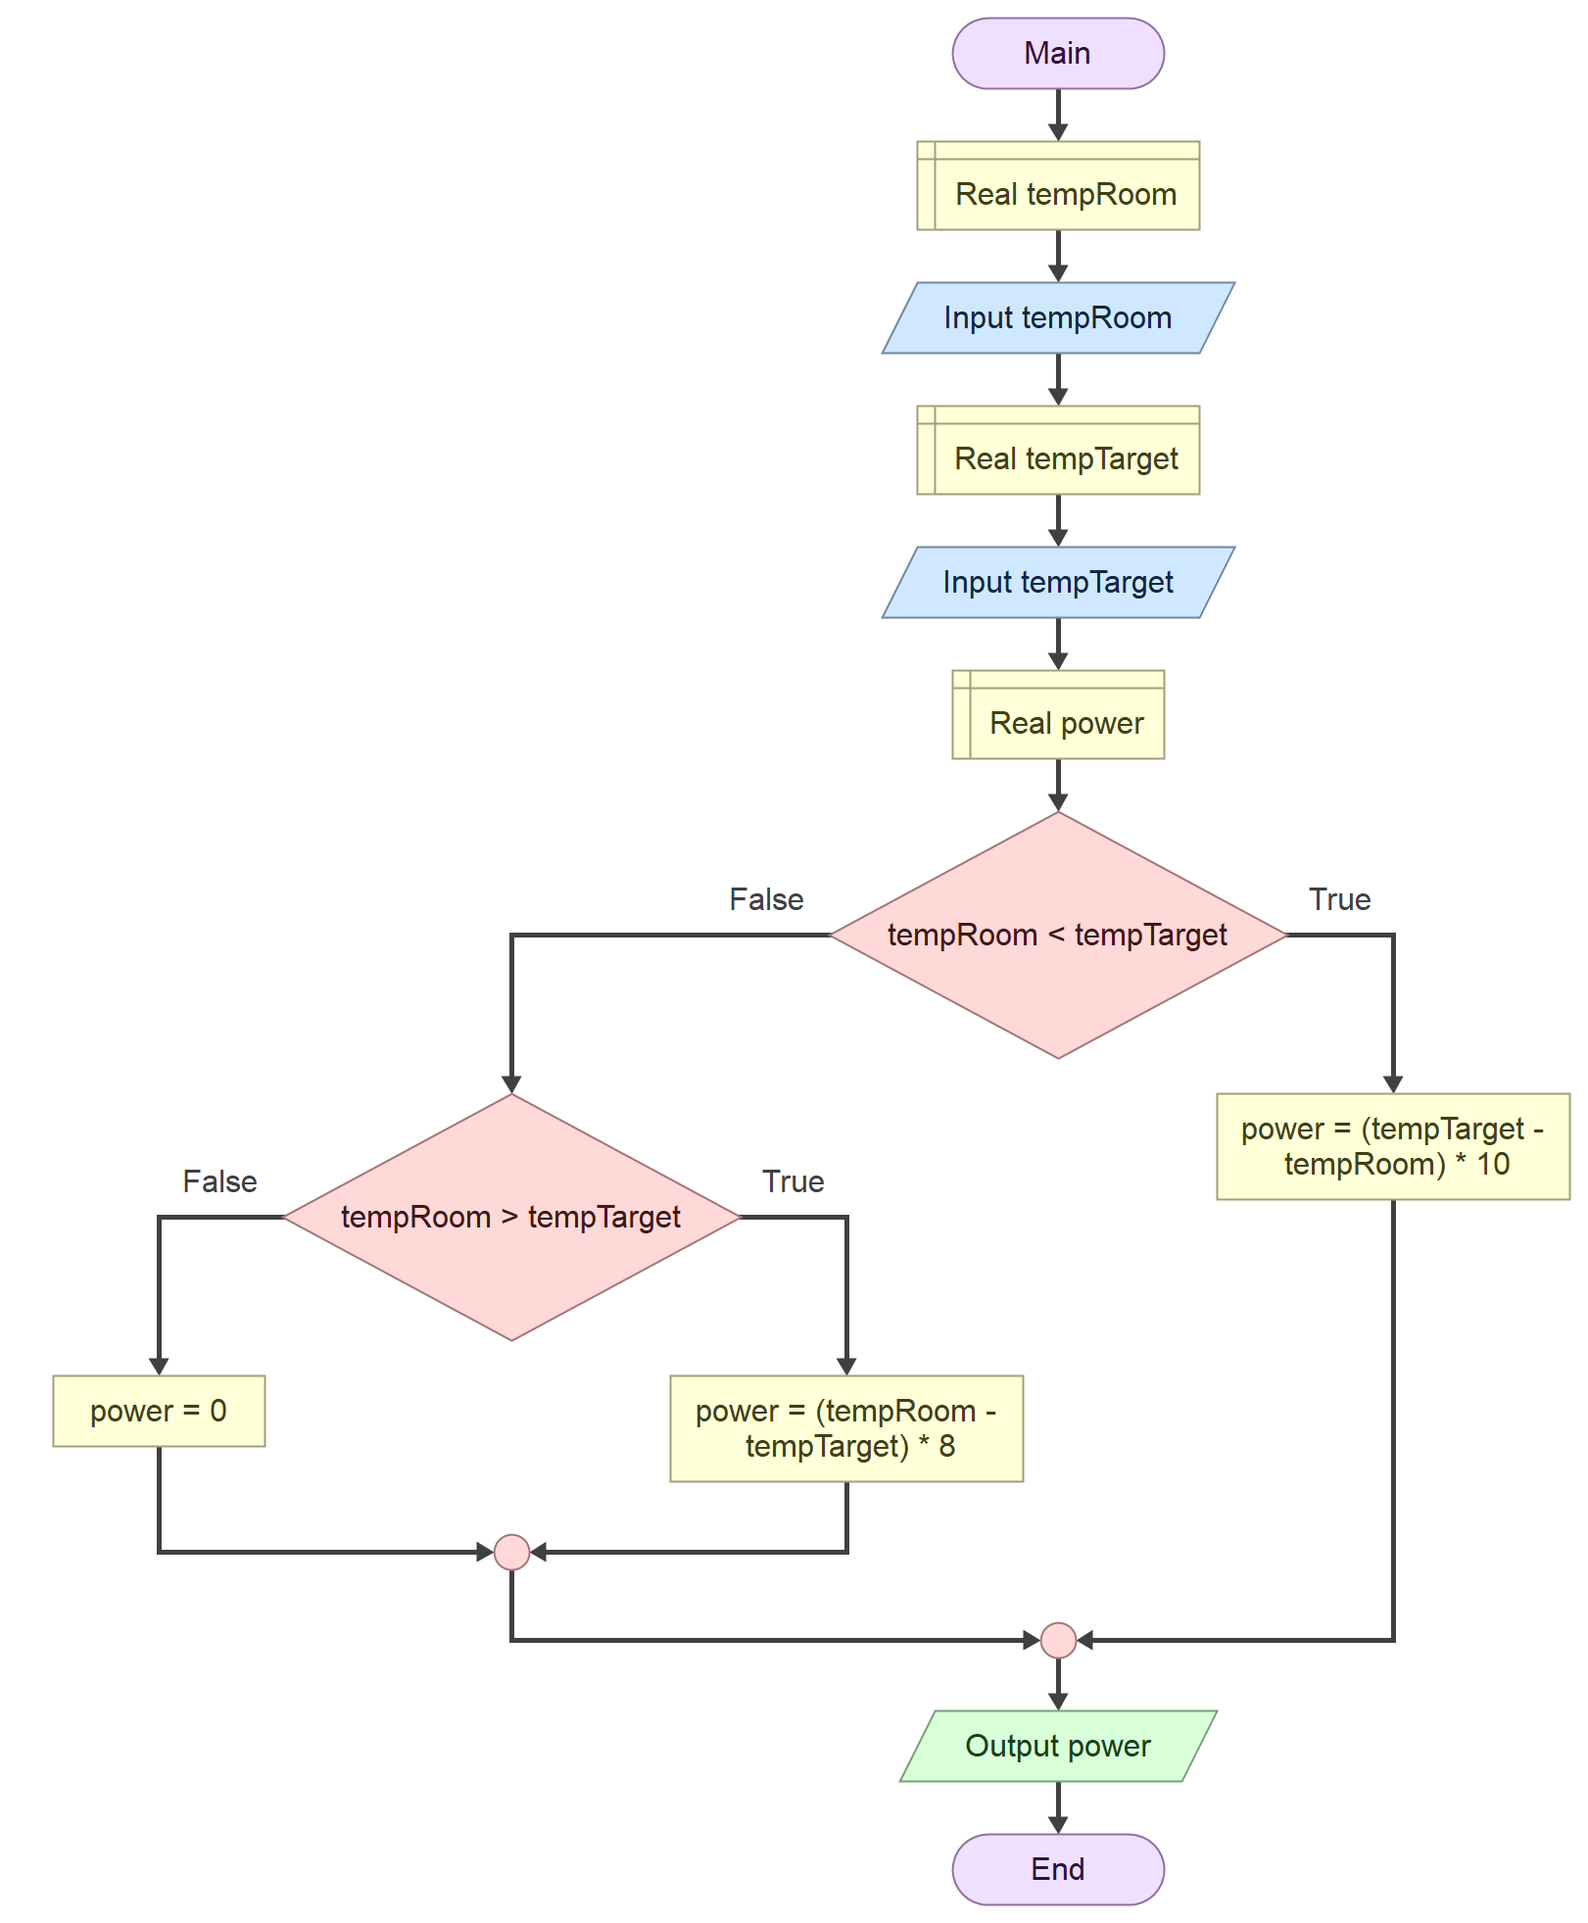
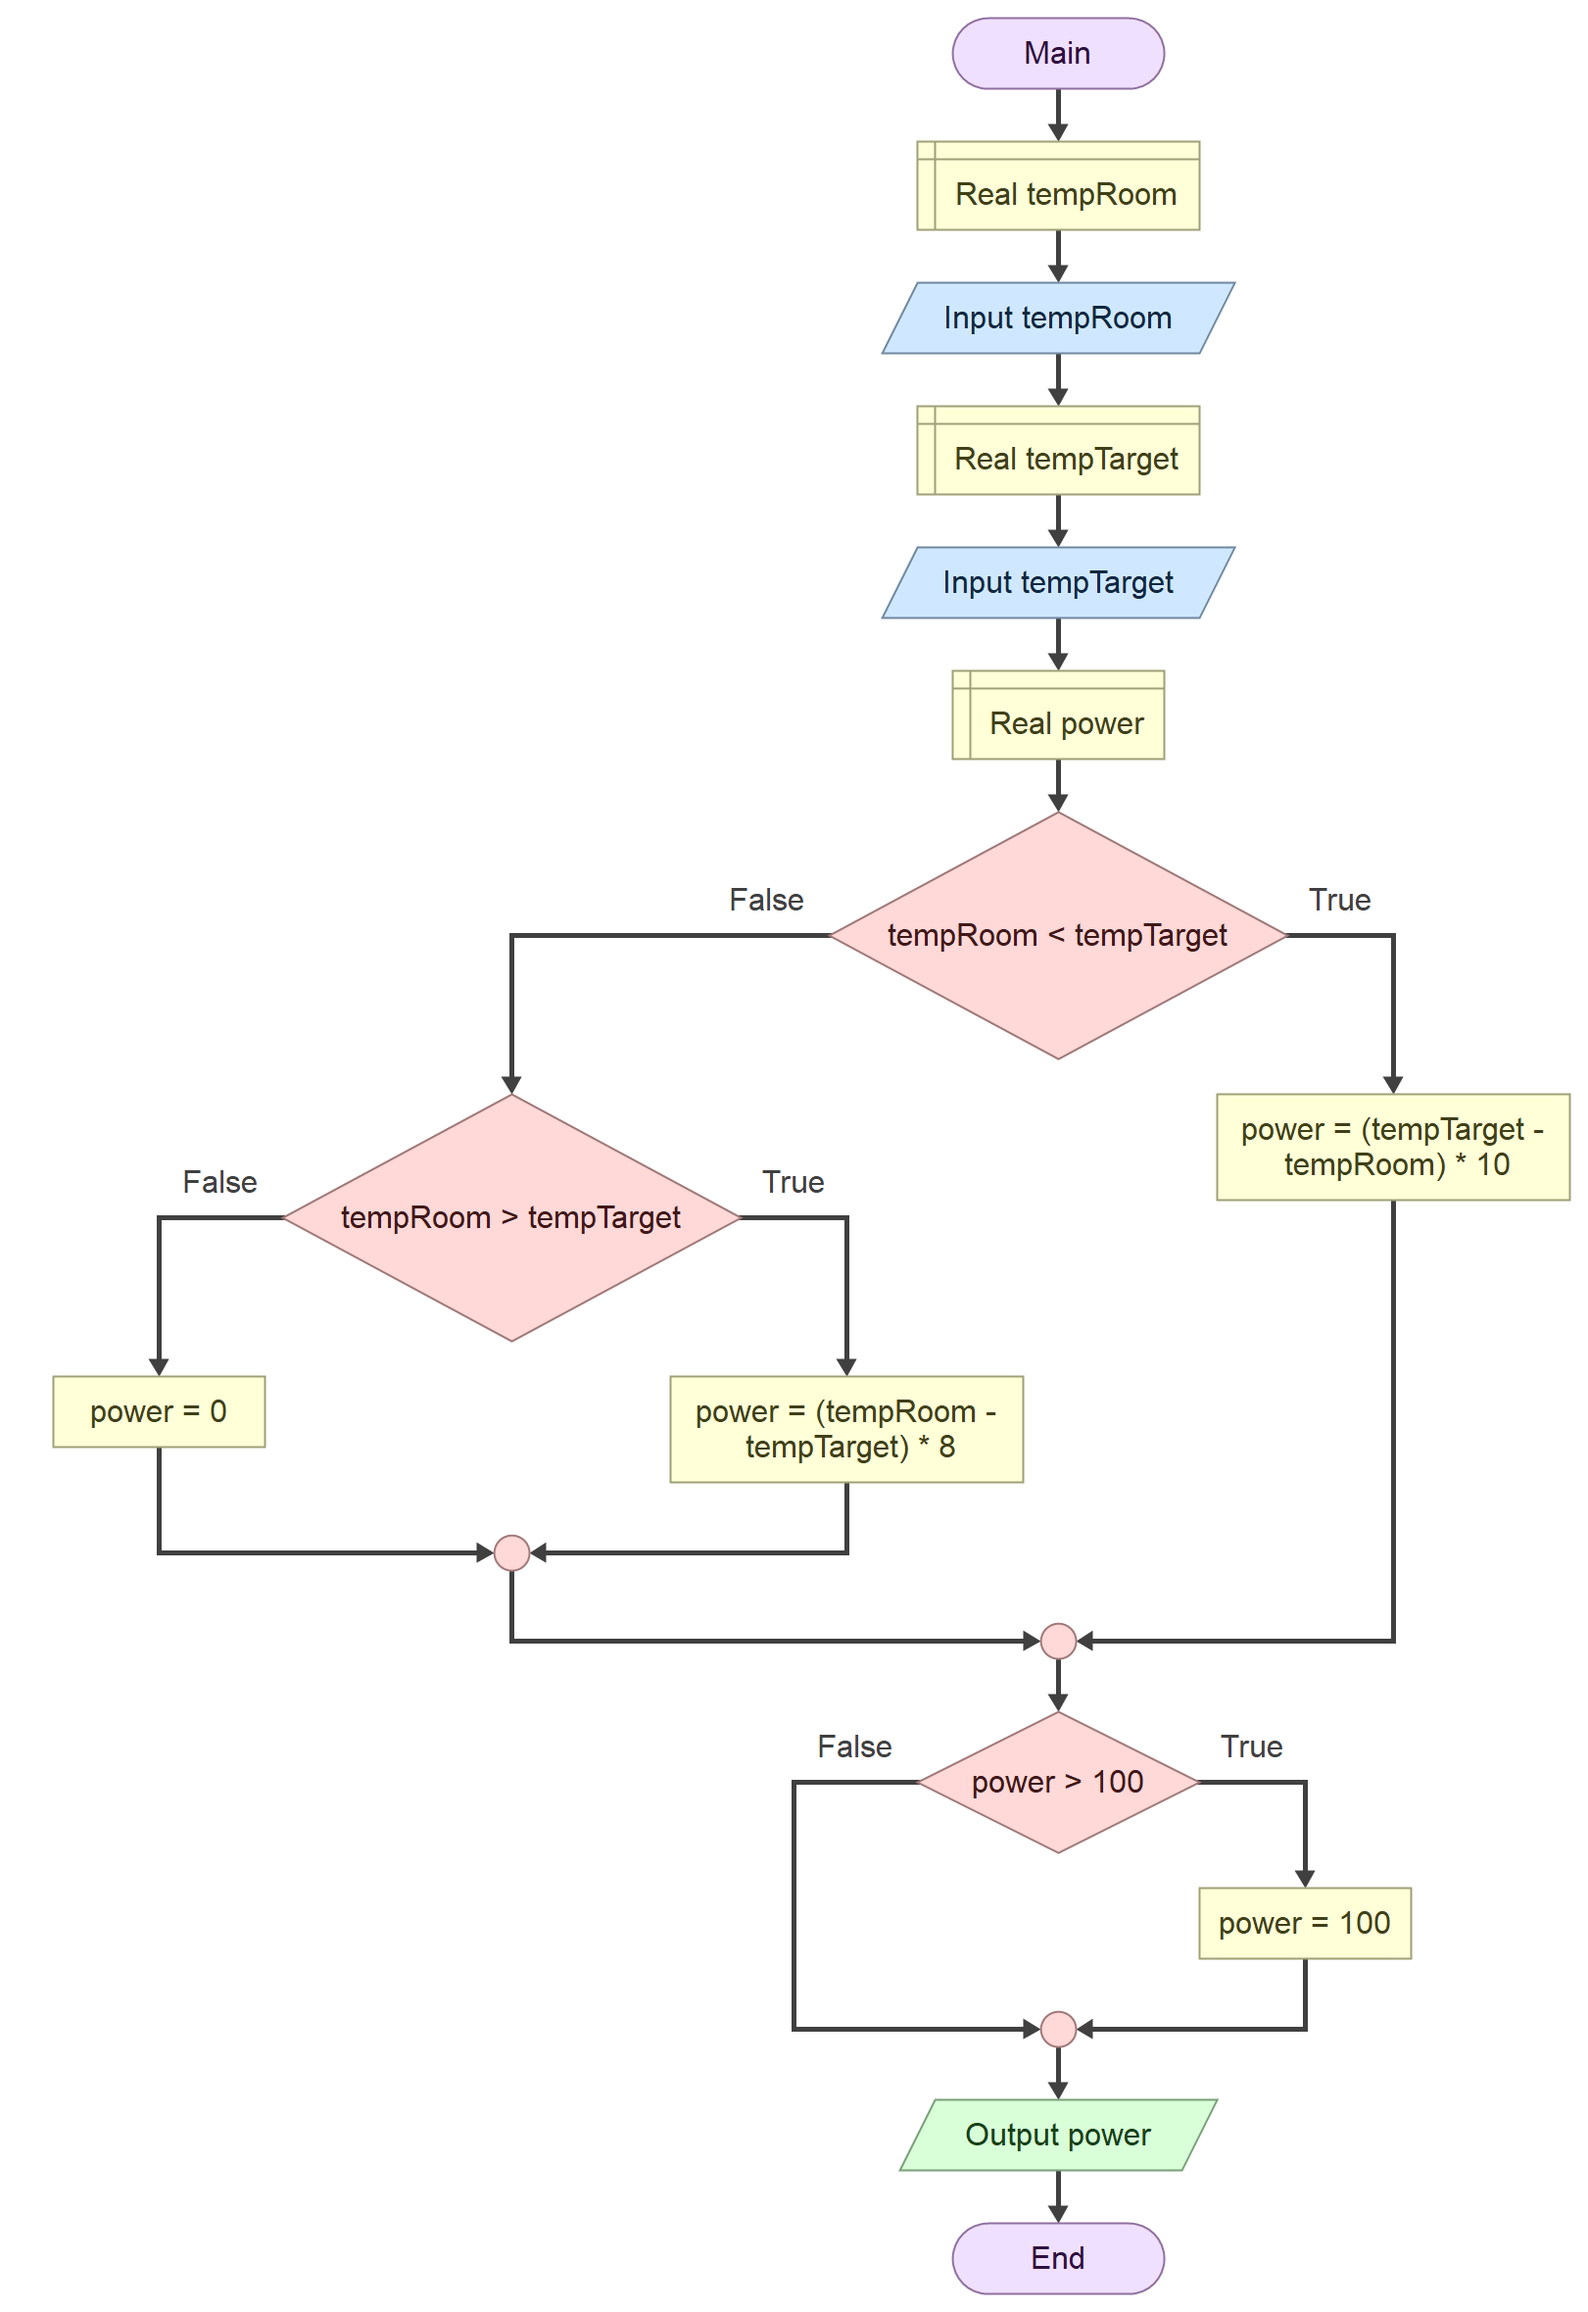
Corrected Exercise 6-8

diff --git a/labs/lab04/exercise8/lab-4-8.py b/labs/lab04/exercise8/lab-4-8.py
@@ -1,9 +1,9 @@
 distance = float(input())
-afterMidnight = (input().lower == 'true')
+afterMidnight = input()
 if distance > 2:
-    fare = 8 + (distance - 2) * 1.2
+    fare = 4 + (distance - 2) * 1.2
 else:
-    fare = distance * 4
-if afterMidnight == True:
+    fare = 4
+if afterMidnight == "yes":
     fare = fare + 3
 print(fare)

diff --git a/labs/lab04/exercise6/lab-4-6.py b/labs/lab04/exercise6/lab-4-6.py
@@ -1,11 +1,12 @@
 minutesBefore = int(input())
-membership = (input().lower == 'true')
+membership = input()
 price = 80
+
 if minutesBefore > 30:
     price = price - 15
 else:
     if minutesBefore < 0:
         price = 0
-if membership == True:
+if membership == "yes":
     price = price * 0.85
 print(price)

diff --git a/labs/lab04/exercise7/lab-4-7.py b/labs/lab04/exercise7/lab-4-7.py
@@ -7,4 +7,6 @@ else:
         power = (tempRoom - tempTarget) * 8
     else:
         power = 0
+if power > 100:
+    power = 100
 print(power)
